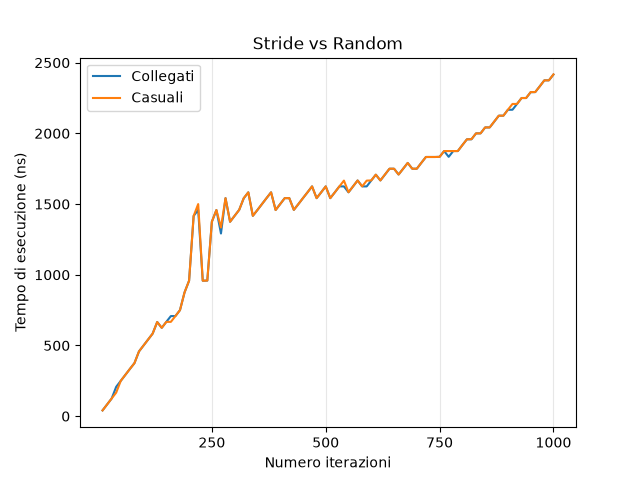
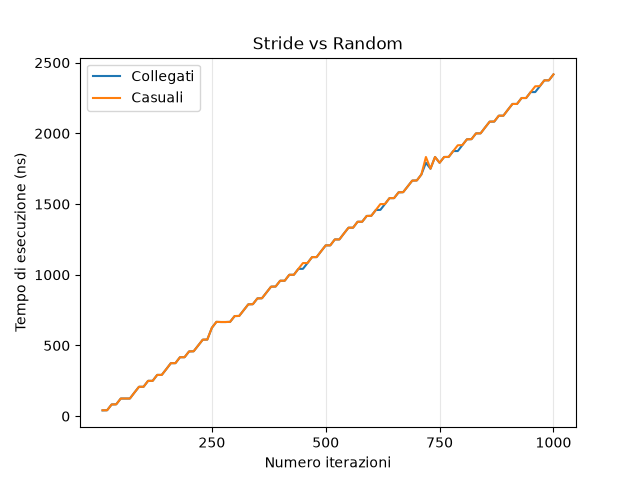
.

diff --git a/exec-time/stride.c b/exec-time/stride.c
@@ -21,7 +21,7 @@
 #define S (STRIDE_BYTES / sizeof(int))
 
 // Numero di misure eseguite per ciascun valore di ITERS.
-#define TRIES 100
+#define TRIES 10000
 
 /**
  * Restituisce il tempo corrente in nanosecondi. Si appoggia alla
@@ -155,7 +155,7 @@ void measure(int ITERS, uint64_t* link_time, uint64_t* rand_time, uint64_t* sarv
     *rand_time = stride(array, ITERS);
 
 	for(int i = 0; i < ITERS; i++) {
-		 array[i*S] = ((rand() % (ITERS-1)) + 1) * S;
+		array[i*S] = ((rand() % (ITERS-1)) + 1) * S;
 	}
 	
 
